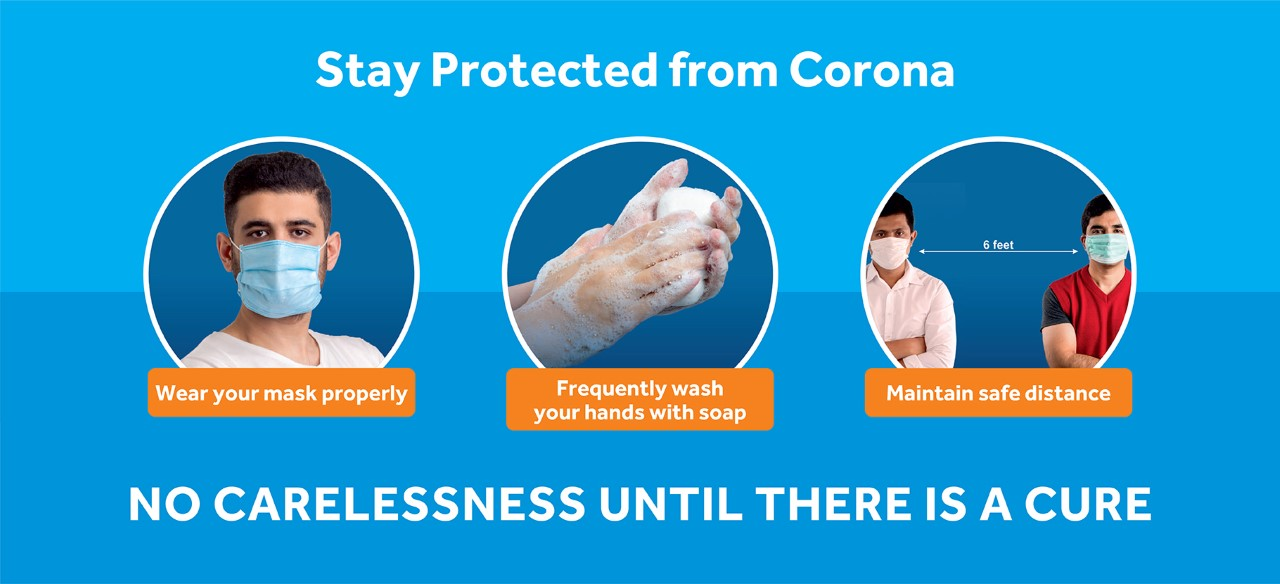
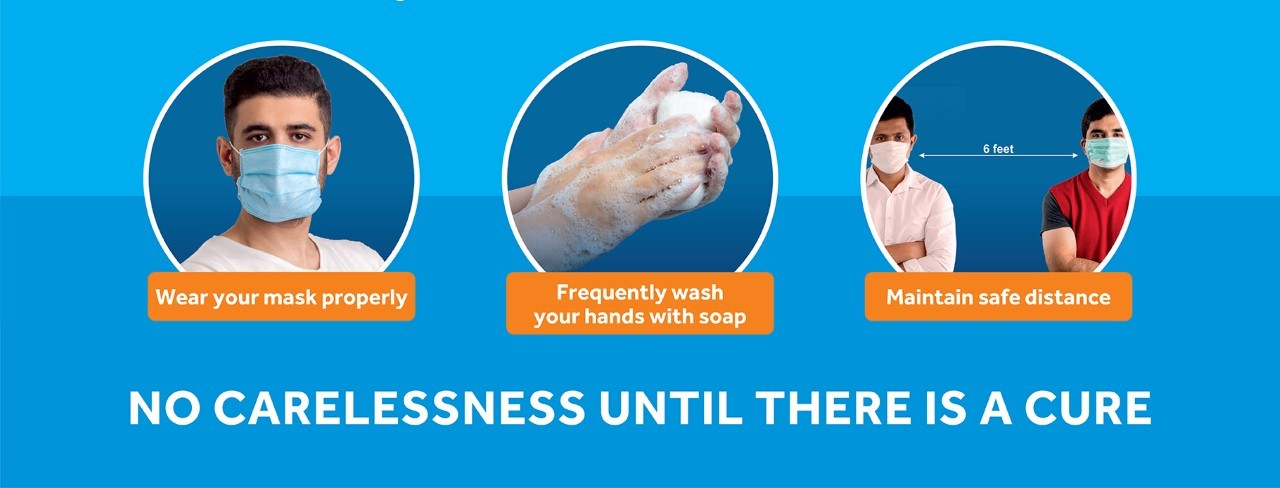
final(fingers crossed)

diff --git a/src/app/aboutus/aboutus.component.html b/src/app/aboutus/aboutus.component.html
@@ -18,7 +18,74 @@
 
     </div>
   </header>   
-      <section id="about" class="about">
+  <!-- <div class="col-lg-4 d-flex align-items-center justify-content-center position-relative" data-aos="zoom-in" data-aos-delay="200"></div> -->
+  <div class="container">
+   
+    <div id="myCarousel" class="carousel slide" data-ride="carousel">
+      <!-- Indicators -->
+      <ol class="carousel-indicators">
+        <li data-target="#myCarousel" data-slide-to="0" class="active"></li>
+        <li data-target="#myCarousel" data-slide-to="1"></li>
+        <li data-target="#myCarousel" data-slide-to="2"></li>
+        <li data-target="#myCarousel" data-slide-to="3"></li>
+        <li data-target="#myCarousel" data-slide-to="4"></li>
+      </ol>
+  
+      <!-- Wrapper for slides -->
+      <div class="carousel-inner">
+        <div class="item active">
+          <img src="../../assets/loan1.jpg" alt="Los Angeles" style="width:100%; margin-top: 50px;">
+        </div>
+  
+        <div class="item">
+          <img src="../../assets//insurance.jpg" alt="New york" style="width:100%;margin-top: 70px">
+
+        </div>
+      
+        <div class="item">
+          <img src="../../assets/loan2.jpg" alt="New york" style="width:100%;margin-top: 50px">
+        </div>
+        <div class="item">
+          <img src="../../assets/sbi_banking_fraud.png" alt="New york" style="width:100%;margin-top: 50px">
+        </div>
+        <div class="item">
+          <img src="../../assets/corona_awareness.jpg" alt="Chicago" style="width:100%;margin-top: 50px">
+        </div>
+      </div>
+  
+      <!-- Left and right controls -->
+      <a class="left carousel-control" href="#myCarousel" data-slide="prev">
+        <span class="glyphicon glyphicon-chevron-left"></span>
+        <span class="sr-only">Previous</span>
+      </a>
+      <a class="right carousel-control" href="#myCarousel" data-slide="next">
+        <span class="glyphicon glyphicon-chevron-right"></span>
+        <span class="sr-only">Next</span>
+      </a>
+    </div>
+  </div>
+  <!-- <div class="pos" > -->
+  <h3 style="color:whitesmoke;"> We beleive there is a better way to do banking.</h3>
+              <p style="color: whitesmoke;" class="fst-italic">
+                A more valuable,less invasive way where customers are earned rather than bought.Our mission
+                is to make banking a simple & efficient process.
+              </p>
+              <ul>
+                <li style="color: whitesmoke;"><i class="bi bi-check-circle"></i> Better Banking Everyday.</li>
+                <li style="color: whitesmoke;"><i class="bi bi-check-circle"></i> Building, managing and preserving your wealth.</li>
+                <li style="color: whitesmoke;"><i class="bi bi-check-circle"></i> Banking for people with better things to do!</li>
+              </ul>
+              <p style="color:white;">
+                A well functioning financial system is a fundamental principle of Banking, and the bank perform important functions
+                for the society. They must therefore be secure. Banks should be able to make online transactions for both debit and 
+                credit side in more secure manner so as to match customers satisfaction level and uphold their trust in banking with us. 
+              </p>
+            <!-- </div> -->
+    
+
+
+
+      <!-- <section id="about" class="about">
         <div class="container" data-aos="fade-up">
   
           <div class="row">
@@ -26,8 +93,8 @@
               <div class="about-img">
                 <img src="../../assets/aboutus.jpg" alt="">
               </div>
-            </div>
-            <div class="col-lg-6 pt-4 pt-lg-0 order-2 order-lg-1 content">
+            </div>-->
+            <!-- <div >
               <h3 style="color:whitesmoke;"> We beleive there is a better way to do banking.</h3>
               <p style="color: whitesmoke;" class="fst-italic">
                 A more valuable,less invasive way where customers are earned rather than bought.Our mission
@@ -43,11 +110,11 @@
                 for the society. They must therefore be secure. Banks should be able to make online transactions for both debit and 
                 credit side in more secure manner so as to match customers satisfaction level and uphold their trust in banking with us. 
               </p>
-            </div>
-          </div>
+            </div> -->
+          <!-- </div> -->
   
-        </div>
-      </section>
+        <!-- </div> -->
+      <!-- </section>  -->
         
         
 

diff --git a/src/app/openaccount/openaccount.component.html b/src/app/openaccount/openaccount.component.html
@@ -35,7 +35,7 @@
                       </div>
                     </div><br>
                     <div class="user-box">  
-                      <select id="title" name="title" required  #title="ngModel" [(ngModel)]="contact.title">
+                      <select id="title" name="title" required  #title="ngModel" [(ngModel)]="contact.title" style="background-color: black;">
                         <option value=""></option>
                         <option value="Mr">Mr</option>
                         <option value="Mrs">Mrs</option>
@@ -46,7 +46,7 @@
 
                   <div class="user-box">
                     <input type="text" id="first_name" name="first_name" required  #first_name="ngModel"
-                    [(ngModel)]="contact.first_name" >
+                    [(ngModel)]="contact.first_name" style="background-color: black;">
                     <div *ngIf="!first_name?.valid && (first_name?.dirty || first_name?.touched)" class="error">
                       <div style="color: crimson;"*ngIf="first_name.errors.required">
                         First Name is required
@@ -382,7 +382,7 @@
                     <label>Gross Annual Income</label>
 
                   </div>
-                  <div class="user-box">
+                  <div class="user-box" >
                     <!-- <input type="text" id="title" name="title" required  #title="ngModel" [(ngModel)]="contact.title" >-->
                      <label>Account Type</label><br>
                      <div *ngIf="!acct_type?.valid && (acct_type?.dirty || acct_type?.touched)" class="error">
@@ -390,9 +390,9 @@
                          Account Type is required
                        </div>
                      </div><br>
-                     <div class="user-box">  
-                       <select id="acct_type" name="acct_type" required  #acct_type="ngModel" [(ngModel)]="contact.acct_type">
-                          <option value=""></option>
+                     <div class="user-box" style="background-color: black;">  
+                       <select id="acct_type" name="acct_type" required  #acct_type="ngModel" [(ngModel)]="contact.acct_type" style="background-color: black;">
+                          <!-- <option value=""></option> -->
                           <option value="Current">Current</option>
                           <option value="Salary">Salary</option>
                           <option value="Savings">Savings</option>                    
@@ -405,7 +405,7 @@
                   <input type="text" id="acct_type" name="acct_type" placeholder="Account Type" #acct_type="ngModel"   [(ngModel)]="contact.acct_type"><br>
                    <input type="text" id="acct_status" name="acct_status" placeholder="Account Status" #sacct_status="ngModel"   [(ngModel)]="contact.acct_status"> -->
                   
-                  <pre class="checkbox">
+                  <pre class="checkbox" style="background-color: black; color: white; font-size: medium;" >
 
                     
                    <input type="checkbox" id="opt_debit_card" name="opt_debit_card" placeholder="Opt for Debit Card" #opt_debit_card="ngModel"   [(ngModel)]="contact.opt_debit_card">Opt for Debit Card<br>
@@ -413,7 +413,7 @@
                   </pre>
                 
                   <!-- <a href="#" (click)="onSubmit(contactForm)">
-                    Register
+                    Register 
                     <span></span> 
                 </a> -->
                 <button type="submit" [disabled]="!contactForm.valid"   class="submit" style="background-color: black;" >Register

diff --git a/src/app/accountsummary/accountsummary.component.html b/src/app/accountsummary/accountsummary.component.html
@@ -67,7 +67,7 @@
     <!--sidebar end-->
     <div class="content">
       <div class="login-box">
-          <h2 style="font-family: Bradley Hand ITC; font-size: 300%;color: #e29e29;">Account Summary</h2>
+          <h2 style="font-family: Bradley Hand ITC; font-size: 200%;">Account Summary</h2>
           <!-- <label style="color: whitesmoke;">Account Holder Name :</label><br>
           <label style="color: whitesmoke;">Account Name :</label><br>
           <label style="color: whitesmoke;">Account Balance :</label><br> -->
@@ -116,7 +116,7 @@
             
             
         </div>
-        <div class="login-box1">
+        <!-- <div class="login-box1">
           <h2 style="font-family: Bradley Hand ITC; font-size: 200%;">Recent Transactions</h2>
           <section>
               
@@ -147,40 +147,9 @@
                   </tr>
                 </table>
               </div>
-              <!-- <div class="tbl-content1">
-                <table cellpadding="0" cellspacing="0" border="0">
-                  <tbody>
-                    <tr *ngFor="let transaction of transactions2">
-                      <td  >{{transaction.ref_id}}</td>
-                      <td>{{transaction.recipient_acct}}</td>
-                      <td>{{transaction.account_no}}</td>
-                      <td>{{transaction.amount}}</td>
-                      <td>{{transaction.trans_date}}</td>
-                      <td>{{transaction.remarks}}</td>
-                      <td>{{transaction.recipient_updated_credit}}</td>
-                      <td>{{transaction.sender_updated_debit}}</td>
-                    </tr>
-                   
-                    <tr>
-                      <td>1234567890</td>
-                      <td>1234567890123456</td>
-                      <td>1234567890123456</td>
-                      <td>12345</td>
-                      <td>2021-04-18 19:30:22.440</td>
-                      <td>hjhgffcfddfghjjhffffghhj</td>
-                      <td>nhjjjkkk</td>
-                      <td>jhhhhjj</td>
-                      </tr>
-                  </tbody>
-                </table>
-              </div> -->
-            </section>
-            
-            
-            
-        </div>
-        
 
+            </section>
+        </div> -->
 </div>
 </body>
 </html>

diff --git a/src/app/banking.service.ts b/src/app/banking.service.ts
@@ -5,17 +5,19 @@ import {Addbeneficiary} from './addbeneficiary';
 import { HttpClient, HttpErrorResponse, HttpHeaders } from "@angular/common/http";
 import { CustomerRequests } from "./customer-requests";
 import { Impstransfer } from "./impstransfer";
-	import {  Observable, throwError } from 'rxjs';
+	import {  Observable, pipe, throwError } from 'rxjs';
   import {AccountHolderinsert} from "./account-holderinsert";
 import {AccountHolder} from "./account-holder";
 import {Transactions} from "./transactions";
 import {Registerforib} from './registerforib';
 import {Accountstatement} from './accountstatement';
+import { catchError } from 'rxjs/operators';
+
 
 @Injectable({
   providedIn: 'root'
 })
-export class BankingService {
+export class  BankingService {
   private apiServer = "http://localhost:62705/Api/";
   httpOptions = {
     headers: new HttpHeaders({
@@ -25,10 +27,11 @@ export class BankingService {
   constructor(private httpClient: HttpClient) { }
   login(admin):Observable<Admin>
   {
-    //console.log("INSIDE SERVECE",user1);
-    var req = this.httpClient.post<Admin>(this.apiServer + '/Adminslogin/',JSON.stringify(admin), this.httpOptions)
+    //console.log("INSIDE SERVICE",user1);
+    var req = this.httpClient.post<Admin>(this.apiServer + '/Adminslogin/',JSON.stringify(admin), this.httpOptions).pipe(catchError(this.errorHandler))
     console.log(req);
     return(req);
+    
   }
   custlogin(accountholder):Observable<AccountHolder>
   {
@@ -180,5 +183,17 @@ adminloggedIn() {
   else{
     return false;
   }
+}
+errorHandler(error) {
+  let errorMessage = '';
+  if(error.error instanceof ErrorEvent) {
+    // Get client-side error
+    errorMessage = error.error.message;
+  } else {
+    // Get server-side error
+    errorMessage = `Error Code: ${error.status}\nMessage: ${error.message}`;
+  }
+  console.log(errorMessage);
+  return throwError(errorMessage);
 }
 }

diff --git a/src/app/impstransaction/impstransaction.component.html b/src/app/impstransaction/impstransaction.component.html
@@ -79,12 +79,12 @@
                     <label>Enter Recepient Account number </label>
                   </div> -->
 
-                  <h5 >Select the Account number from the following beneficiaries</h5>
+                  <h4>Select the Account number from the following beneficiaries</h4>
                   <div class="user-box"> 
                     
                     
                     <select id="recipient_acct" name="recipient_acct" required  #recipient_acct="ngModel"
-                    [(ngModel)]="contact.recipient_acct" >
+                    [(ngModel)]="contact.recipient_acct" style="background-color: black;">
                       <option [value]="beneficiaries.ben_account_no" *ngFor="let beneficiaries of beneficiarylist1">{{beneficiaries.ben_name}}--{{beneficiaries.ben_account_no}}</option>
                     </select>
                     

diff --git a/src/app/changepassword/changepassword.component.html b/src/app/changepassword/changepassword.component.html
@@ -62,10 +62,10 @@
                             [(ngModel)]="contact.reenter_new_pass"> 
                             <div style="color: red;" *ngIf="!reenter_new_pass?.valid && (reenter_new_pass?.dirty || reenter_new_pass?.touched)" class="error">
                               <div *ngIf="reenter_new_pass.errors.required">
-                                New Password is required
+                                Required
                               </div>
                               <div *ngIf="reenter_new_pass.errors.pattern">
-                                Reentered Password should be similar to the new password          
+                                <!-- Reentered Password should be similar to the new password           -->
                               </div>
                             </div>
 

diff --git a/src/app/accountstatementmain/accountstatementmain.component.html b/src/app/accountstatementmain/accountstatementmain.component.html
@@ -80,10 +80,10 @@
               <div >
                 <label><h2> <pre> From </pre></h2> </label>
                 <input type="datetime-local" id="trans_date" name="trans_date" required  #trans_date="ngModel"
-                [(ngModel)]="contact.trans_date">
+                [(ngModel)]="contact.trans_date" style="background-color: darkgrey;">
                 <label><h2><pre> To </pre></h2></label>
                 <input type="datetime-local" id="to_trans_date" name="to_trans_date" required  #to_trans_date="ngModel"
-                [(ngModel)]="contact.to_trans_date">
+                [(ngModel)]="contact.to_trans_date" style="background-color: darkgrey;">
               </div>
 
               <a [routerLink]="['/accountstatementmain']" (click)="OnSubmit(contactForm)">

diff --git a/src/app/registerforib/registerforib.component.css b/src/app/registerforib/registerforib.component.css
@@ -6,6 +6,11 @@
    
 }
 
+html{
+  background-image: url("../../assets/bg1.jpg");
+  
+}
+
 .login-box {
        
        top: 50%;
@@ -616,10 +621,10 @@
     }
   }
   
-  .login-box {
+  /* .login-box {
     position: relative;
     top: 50%;
-    left: 100px;
+    left: 50%;
     width: 850px;
     padding: 40px;
     transform: translate(-50%, -50%);
@@ -629,7 +634,7 @@
     border-radius: 10px;
     border:solid;
     border-color:#cda45e ;
-  }
+  } */
   
   .login-box h2 {
     margin: 0 0 30px;
@@ -1376,7 +1381,7 @@
   .login-box {
     position: relative;
     top: 50%;
-    left: 400px;
+    left: 35%;
     width: 650px;
     padding: 40px;
     transform: translate(-50%, -50%);

diff --git a/src/index.html b/src/index.html
@@ -12,6 +12,9 @@
  <link rel="stylesheet" href="https://cdnjs.cloudflare.com/ajax/libs/font-awesome/5.12.1/css/all.min.css">
  <link rel="stylesheet" href="https://cdnjs.cloudflare.com/ajax/libs/font-awesome/4.7.0/css/font-awesome.min.css">
     <script src="https://cdnjs.cloudflare.com/ajax/libs/jquery/3.5.1/jquery.min.js" charset="utf-8"></script>
+     <link rel="stylesheet" href="https://maxcdn.bootstrapcdn.com/bootstrap/3.4.1/css/bootstrap.min.css">
+    <script src="https://ajax.googleapis.com/ajax/libs/jquery/3.5.1/jquery.min.js"></script>
+    <script src="https://maxcdn.bootstrapcdn.com/bootstrap/3.4.1/js/bootstrap.min.js"></script>
 </head>
 <body>
   <app-root></app-root>

diff --git a/src/app/fundtransfer/fundtransfer.component.html b/src/app/fundtransfer/fundtransfer.component.html
@@ -40,7 +40,7 @@
         <div class="login-box">
             <h2 style="font-family: Open Sans, sans-serifBradley; font-size: 200%;">Please Select Type of Fund Transfer</h2>
             <form>
-                <pre>
+                <pre style="background-color: black; color: white;">
                                             <a [routerLink]="['/imps']" style="font-size: x-large; color: #cda45e;">IMPS <span></span> </a>
                                             <p style="font-size:large">      IMPS is an emphatic service which allow transferring of funds instantly within 
            banks across India which is not only safe but also economical.</p>

diff --git a/src/app/home/home.component.html b/src/app/home/home.component.html
@@ -70,9 +70,9 @@
             <a [routerLink]="['/openaccount']" class="btn-book animated fadeInUp scrollto">Open an Acount</a>
           </div>
         </div>
-        <div class="col-lg-4 d-flex align-items-center justify-content-center position-relative" data-aos="zoom-in" data-aos-delay="200">
+        <!-- <div class="col-lg-4 d-flex align-items-center justify-content-center position-relative" data-aos="zoom-in" data-aos-delay="200">
           <a href="https://www.youtube.com/watch?v=GlrxcuEDyF8" class="glightbox play-btn"></a>
-        </div>
+        </div> -->
 
       </div>
     </div>

diff --git a/src/app/neftransaction/neftransaction.component.html b/src/app/neftransaction/neftransaction.component.html
@@ -91,7 +91,7 @@
                     
                     
                     <select id="recipient_acct" name="recipient_acct" required  #recipient_acct="ngModel"
-                    [(ngModel)]="contact.recipient_acct" >
+                    [(ngModel)]="contact.recipient_acct" style="background-color: black;" >
                       <option [value]="beneficiaries.ben_account_no" *ngFor="let beneficiaries of beneficiarylist1">{{beneficiaries.ben_name}}--{{beneficiaries.ben_account_no}}</option>
                     </select>
                     
